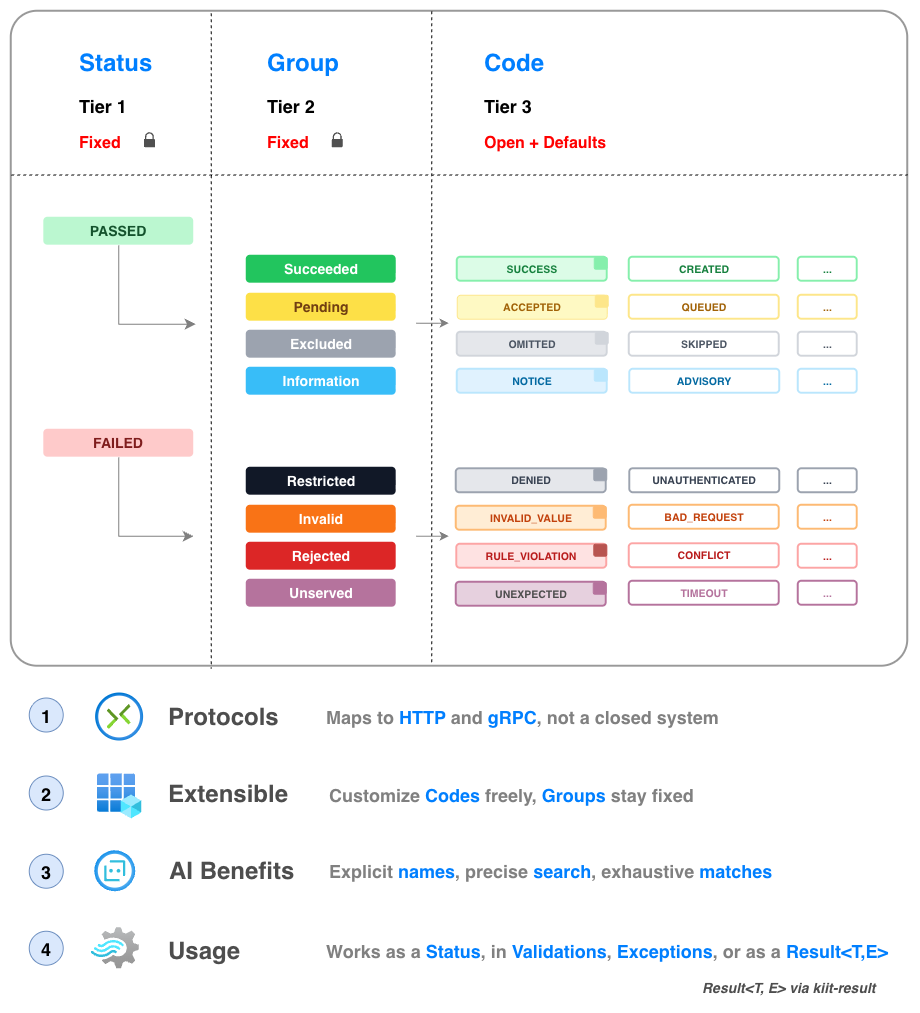
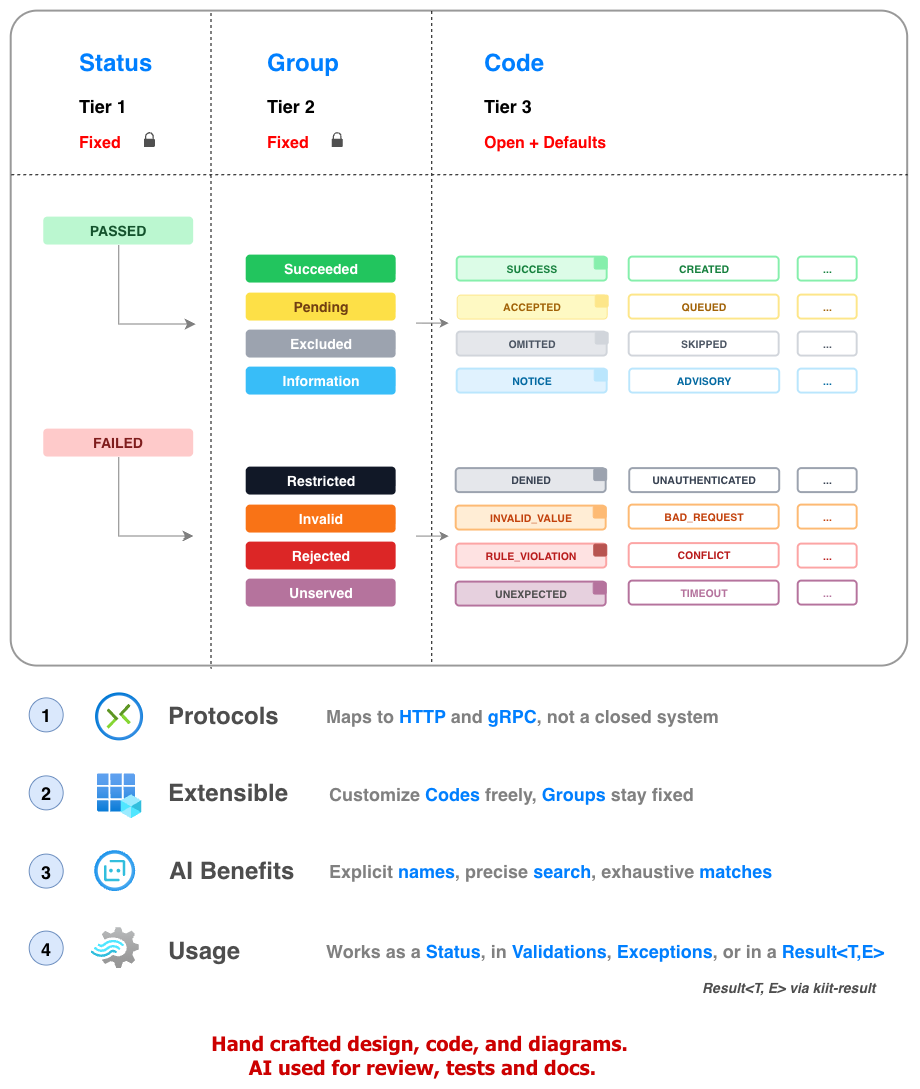
docs: updated roadmap and note about kiit, updated diagram.

diff --git a/README.md b/README.md
@@ -207,7 +207,9 @@ when (val status = authorize(userId, requesterId)) {
 
 ## Roadmap
 
-kiit-codes is being extracted and polished as a standalone module of Kiit. Current work is focused on the Kotlin release, documentation, examples, and ecosystem integration.
+kiit-codes has been extracted from kiit framework and polished as a standalone module.
+This has been used in production for over 4+ years to power mobile and server kotlin applications.
+Current work is focused on the Kotlin release, documentation, examples, and ecosystem integration.
 
 | # | Topic | Description |
 |---:|---|---|
